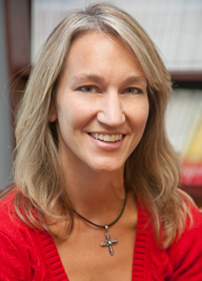
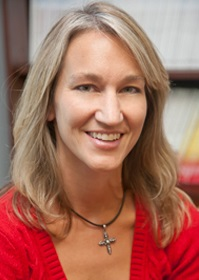
5/18 Update
Added Schema.org Microdata to Head
Fixed Aspect ratio of staff and Myers images

diff --git a/static/css/main.css b/static/css/main.css
@@ -34,7 +34,7 @@
 .btn-reg{font-family:Montserrat,sans-serif;font-weight:800;color:#fff;border-radius:10px;padding:4px}.btn-reg:hover{opacity:.7}
 .btn-a{padding:9px 30px}.btn-a:hover{text-decoration:none;color:inherit}.btn-center{width:90%;margin-left:5%;padding-top:10px;padding-bottom:10px}.btn-resize-parent{border-radius:10px}.btn-resize-parent:hover{opacity:.7}.btn-resize-a{font-family:Montserrat,sans-serif;font-weight:800;color:#fff}
 .btn-resize-a:hover{text-decoration:none;color:inherit}
-@media (max-width: 950px) {
+@media (max-width: 980px) {
     .navbar-header {
         float: none;
     }
@@ -82,11 +82,12 @@
     .navbar-toggle {
         margin-top:20px;
         margin-right:5px;
-    position}
+    }
   }
 .about-format {
-    margin-right:15px;
-    margin-left: -20px;}
+    margin-right: 15px;
+    margin-left: -20px;
+}
 @media (max-device-width:1000px) {
     .about-format {
         margin: 0px 0px 0px;
@@ -103,9 +104,16 @@ h1{color:#000;font-family:Montserrat,sans-serif;font-weight:600;margin-top:0;fon
 .navbar span:hover{color:rgba(165,163,163,.982)}
 .navbar .dropdown-item:hover{color:#000}
 .navbar-brand span{font-family:Montserrat,sans-serif}
+.navbar {
+    border:0px;
+}
 .nav-item{-moz-transition:all .3s ease-in;-o-transition:all .3s ease-in;-webkit-transition:all .3s ease-in;transition:all .3s ease-in}
 .nav-item:hover{background-color:#0a2f42}
 .btn-nav{padding:4px!important;margin-top:10px;margin-bottom:10px}
+.dropdown-menu {
+    border-style:solid;
+    border-color:#0a2f42;
+}
 footer,header{background-attachment:fixed;background-position:center;-webkit-background-size:cover;-moz-background-size:cover;-o-background-size:cover;background-size:cover!important;display:block}.appointment-form{background-color:rgba(0,0,0,.7);border-radius:5px;padding:6% 12% 6%;text-align:center;margin-top:20px;margin-bottom:20px}.appointment-form-btn{width:100%}.form-title{font-size:17px;margin-bottom:25px}
 .featured-image{height:250px}
 .logo{background:linear-gradient(to right,rgba(0,0,0,0),#022a41 30%,#022a41 70%,rgba(0,0,0,0))}
@@ -137,7 +145,7 @@ footer,header{background-attachment:fixed;background-position:center;-webkit-bac
 .edu-img-lg{max-width:400px;max-height:400px;width:100%;height:auto;margin-bottom:5px}.glyphicon-link{margin-right:5px}.video-list{padding-left:0}@media only screen and (max-width:530px){.sm-pic{display:none}}.md-img-right{float:right;margin-left:15px;margin-right:2%}.md-img-left{float:left;margin-right:15px;margin-left:2%}.md-img-center{margin-left:auto;margin-right:auto}.jumbotron{background-color:transparent}.page-footer{color:rgba(205,203,203,.982)}
 .page-footer h1{color:#fff}
 .footer-copyright{padding-top:20px;padding-bottom:20px;text-align:center;background-color:#000}.footer-contact{background-color:rgba(0,0,0,.4);padding-bottom:30px}.google-map{margin-top:20px}.videowrapper{float:none;clear:both;width:100%;position:relative;padding-bottom:56.25%;padding-top:25px;height:0}.videowrapper iframe{position:absolute;top:0;left:0;width:100%;height:100%}.video-popup:focus{outline:0}@media only screen and (max-width:430px){.footer-contact iframe{display:none}}.procedure-img{height:320px;background-size:100% 100%;position:relative;display:block;max-width:430px;margin-left:auto;margin-right:auto;border:5px solid #ebebeb}.procedure-content{position:absolute;height:auto;max-height:310px;max-width:430px}.procedure-content .procedure-content-hover{background-color:rgba(0,0,0,.6);height:310px;visibility:hidden}@media only screen and (max-width:768px){.procedure-content .procedure-content-hover{visibility:visible}}.procedure-content:hover .procedure-content-hover{visibility:visible}
-.img-full{max-width:400px;width:100%;height:auto;margin-bottom:5px}.img-center{margin:0;position:absolute;top:50%;left:50%;-ms-transform:translate(-50%,-50%);transform:translate(-50%,-50%)}.img-bordered{border:3px solid #ddd;border-radius:5px}.heading-format{padding-left:0;padding-right:0}@media only screen and (max-width:4000px){.heading-format{padding-left:12%;padding-right:12%}}@media only screen and (max-width:1200px){.heading-format{padding-left:3%;padding-right:3%}}@media only screen and (max-width:1000px){.heading-format{padding-left:0;padding-right:0}}.procedure-format{padding-left:2px;padding-right:2px}@media only screen and (min-width:1025px){.procedure-format{padding-left:8%;padding-right:8%}}
+.img-full{max-width:600px;width:100%;height:auto;margin-bottom:5px}.img-center{margin:0;position:absolute;top:50%;left:50%;-ms-transform:translate(-50%,-50%);transform:translate(-50%,-50%)}.img-bordered{border:3px solid #ddd;border-radius:5px}.heading-format{padding-left:0;padding-right:0}@media only screen and (max-width:4000px){.heading-format{padding-left:12%;padding-right:12%}}@media only screen and (max-width:1200px){.heading-format{padding-left:3%;padding-right:3%}}@media only screen and (max-width:1000px){.heading-format{padding-left:0;padding-right:0}}.procedure-format{padding-left:2px;padding-right:2px}@media only screen and (min-width:1025px){.procedure-format{padding-left:8%;padding-right:8%}}
 #myers-headshot{height:480px;-webkit-background-size:cover;-moz-background-size:cover;-o-background-size:cover;background-size:cover!important;display:block;overflow:hidden}
 #myers-about-headshot{height:auto;max-height:420px;max-width:350px;width:100%;position:relative}
 #myers-description{height:480px}

diff --git a/layouts/partials/head.html b/layouts/partials/head.html
@@ -38,4 +38,79 @@
     {{- end }}
 
     <link rel="preload" href="/fonts/glyphicons-halflings-regular.woff2" as="font" type="font/woff2" crossorigin>
+    <script type ="application/ld+json">
+      {"@context": "http://schema.org/",
+        "@type": "Physician",
+        "@id": "http://myerssportsmedicine.com/", 
+        "name": "Myers Sports Medicine and Orthopaedic Center",
+        "image": [
+        "https://myerssportsmedicine.com/static/images/dr-myers/myers-main.jpg"],
+        "url": "https://myerssportsmedicine.com",
+        "knowsAbout": "Orthopaedic and Sports Medicine" ,
+        "alumni": "Johns Hopkins University School of Medicine",
+        "medicalSpeciality":"Orthopaedic and Sports Medicine",
+        "availableService": [
+        {
+          "@type": "MedicalProcedure",
+              "name": "ACL Repair",
+              "bodyLocation": "Knee",
+              "procedureType": "Surgery"
+        },
+        {
+          "@type": "MedicalProcedure",
+          "name": "Knee Replacement",
+          "bodyLocation": "Knee",
+          "procedureType": "Surgery"
+        },
+        {
+          "@type": "MedicalProcedure",
+          "name": "Rotator Cuff Repair",
+          "bodyLocation": "Shoulder",
+          "procedureType": "Surgery"
+        },
+        {
+          "@type": "MedicalProcedure",
+          "name": "PRP Injections",
+          "bodyLocation": "Knee",
+          "procedureType": "Injection"
+        },
+        {
+          "@type": "MedicalTherapy",
+          "name": "Physical Therapy",
+          "bodyLocation": "Knee",
+          "procedureType": "Noninvasive"
+        }
+        ],
+        "openingHoursSpecification":[
+        {
+          "@type": "OpeningHoursSpecification",
+          "dayOfWeek": [
+          "Monday",
+          "Tuesday",
+          "Wednesday",
+          "Thursday",
+          "Friday"],
+          "opens":"8AM-12PM, 1:30PM-5PM",
+          "closes":"5PM"
+        }
+        ],
+        "telephone":"404-350-9405",
+        "address": {
+          "@type": "PostalAddress",
+          "streetAddress": "3200 Downwood Circle Road NW Suite 340",
+          "addressLocality": "Atlanta",
+          "addressRegion": "GA",
+          "postalCode": "30327",
+          "addressCountry": "US"
+      },
+        "aggregateRating": {
+          "@type": "AggregateRating",
+          "ratingCount": "28",
+          "reviewCount": "28",
+          "ratingValue": "4.6",
+          "bestRating": "5",
+          "worstRating": "1"
+        }
+        }
+      </script>
 </head>

diff --git a/content/dr-myers/_index.md b/content/dr-myers/_index.md
@@ -2,7 +2,7 @@
 title: "Meet Dr. Myers"
 description: "Dr. Thomas H. Myers is an Atlanta-based board-certified orthopaedic surgeon and sports medicine expert. 
 He specializes in knee and shoulder procedures including robot-assisted knee replacement surgery, ACL repair, and repairs of rotator cuff and SLAP tears. Dr. Myers believes in taking the time to properly diagnose patients and ensure they understand their condition and all of the treatment options available to them."
-pic: "images/dr-myers/myers-main.jpg"
+pic: "images/dr-myers/myers-ar.jpg"
 featuredImage: "images/featured-images/sports-sized.jpg"
 ---
 
